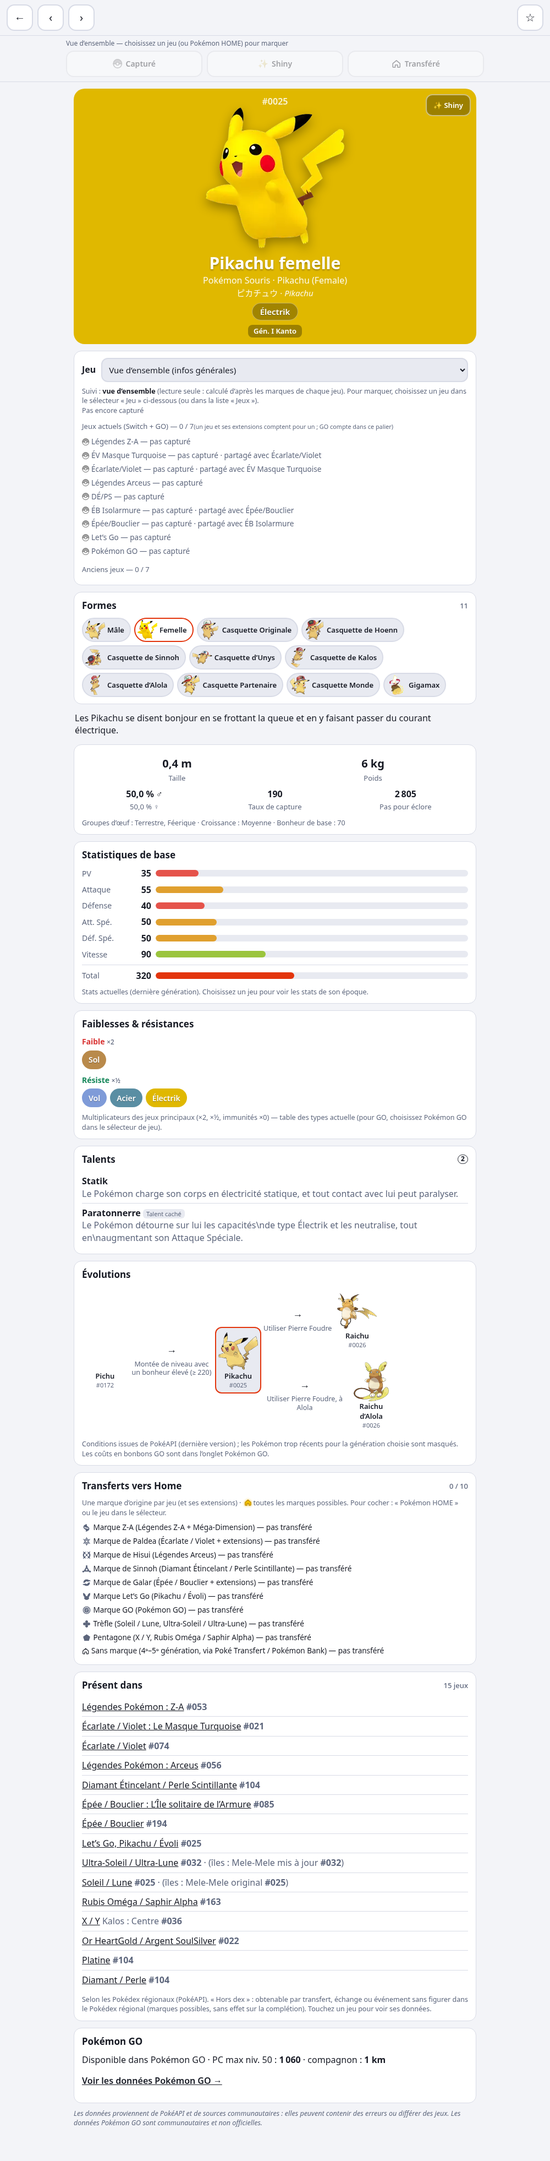
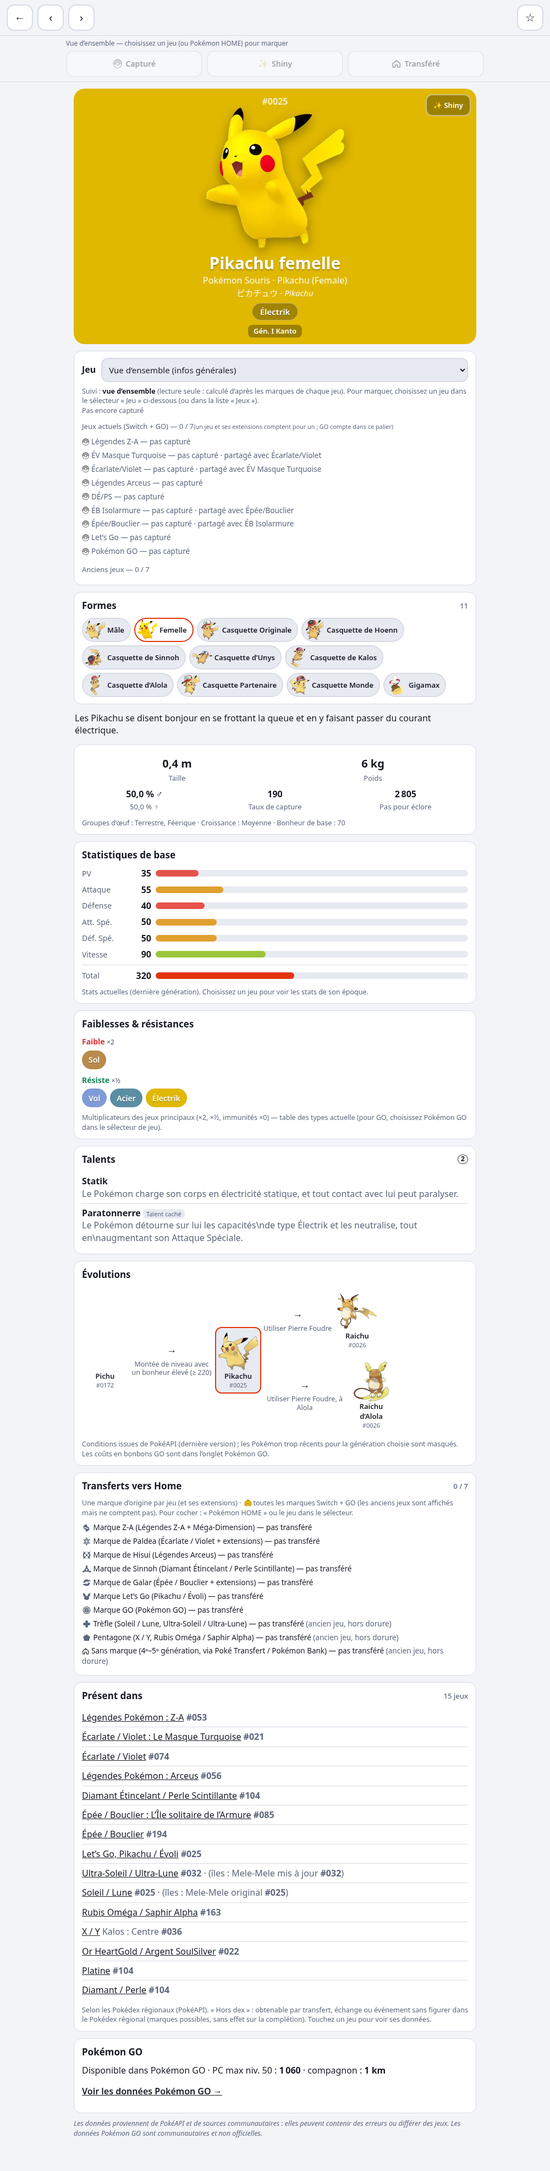
v23: Home gold counts only Switch-era origin marks + GO (old marks kept, not counted); Home sheet separates dorure / anciens jeux; GBA games: no HOME transfer (Pal Park → Sans marque)

diff --git a/docs/app.js b/docs/app.js
@@ -125,14 +125,19 @@ const ORIGINS = [
   { id: 'galar', n: 'Galar', fr: 'Marque de Galar (Épée / Bouclier + extensions)', games: ['sw', 'swisle', 'swcrown'] },
   { id: 'lgpe', n: 'Let’s Go', fr: 'Marque Let’s Go (Pikachu / Évoli)', games: ['lgpe'] },
   { id: 'go', n: 'GO', fr: 'Marque GO (Pokémon GO)', games: ['go'] },
-  { id: 'alola', n: 'Alola', fr: 'Trèfle (Soleil / Lune, Ultra-Soleil / Ultra-Lune)', games: ['sm', 'usum'] },
-  { id: 'kalos', n: 'Kalos', fr: 'Pentagone (X / Y, Rubis Oméga / Saphir Alpha)', games: ['xy', 'oras'] },
-  { id: 'none', n: 'Sans marque', s: 'Gén. 4–5', fr: 'Sans marque (4ᵉ–5ᵉ génération, via Poké Transfert / Pokémon Bank)', games: ['dp', 'pt', 'hgss', 'bw', 'b2w2'], noimg: 1 },
-  { id: 'gb', n: 'Game Boy', s: 'GB', fr: 'Marque Game Boy (Console virtuelle 3DS : Rouge / Bleu / Jaune / Or / Argent / Cristal)', games: ['rb', 'y', 'gs', 'c'] },
+  { id: 'alola', old: 1, n: 'Alola', fr: 'Trèfle (Soleil / Lune, Ultra-Soleil / Ultra-Lune)', games: ['sm', 'usum'] },
+  { id: 'kalos', old: 1, n: 'Kalos', fr: 'Pentagone (X / Y, Rubis Oméga / Saphir Alpha)', games: ['xy', 'oras'] },
+  { id: 'none', old: 1, n: 'Sans marque', s: 'Gén. 4–5', fr: 'Sans marque (4ᵉ–5ᵉ génération, via Poké Transfert / Pokémon Bank)', games: ['dp', 'pt', 'hgss', 'bw', 'b2w2'], noimg: 1 },
+  { id: 'gb', old: 1, n: 'Game Boy', s: 'GB', fr: 'Marque Game Boy (Console virtuelle 3DS : Rouge / Bleu / Jaune / Or / Argent / Cristal)', games: ['rb', 'y', 'gs', 'c'] },
 ];
 const ORI = Object.fromEntries(ORIGINS.map((o, i) => [o.id, { ...o, i }]));
 const ORIGIN_OF = {}; ORIGINS.forEach(o => o.games.forEach(g => ORIGIN_OF[g] = o.id));
 const originOf = c => ORIGIN_OF[c] || null;
+// v23 (Yann's rule): only Switch-era marks count for Home gold — Let's Go, Galar, DÉ/PS, Hisui, Paldea, Z-A, GO (except Mythicals), and GBA (Rouge Feu / Vert Feuille Switch) once added.
+// Old marks (Game Boy, pentagon, clover, « Sans marque ») keep their buttons and marks but do not count (Pokémon Bank closing).
+// GBA originals (Rubis/Saphir/Émeraude, Rouge Feu/Vert Feuille GBA): no HOME link (h: null) → Transféré greyed, no mark; Pal Park path = « Sans marque »
+const GBA_IDS = new Set(['rs', 'e', 'frlg']);
+const isGoldMark = m => !!ORI[m] && !ORI[m].old;
 const marksOf = games => [...new Set(games.map(originOf).filter(Boolean))].sort((a, b) => ORI[a].i - ORI[b].i);
 const omIcon = m => (!m || !ORI[m] || ORI[m].noimg) ? homeBall : `<span class="om om-${m}" aria-hidden="true"></span>`;
 // Battle-only (p.bo): Primo, Éternamax, in-battle forms — inherit base marks. Megas use p.mb + Méga-Gemme (Z-A). Gigamax are separately markable.
@@ -194,7 +199,8 @@ function baseStatus(p, av) {
 }
 const homeAvailF = (p, f) => p.mb ? homeAvail(p) : marksOf([...(f.av || []).filter(g => GAME_BY[g] && GAME_BY[g].h), ...(p.go && !p.my ? ['go'] : [])]);
 // "complete" = transferred from every compatible game where it exists (DLC/extension games count only when no base game has it)
-const homeComplete = (p, av = homeAvail(p)) => { if (p.bo) { p = mp(p); av = homeAvail(p); } const t = HOME_C.get(p.k) || []; return av.length > 0 && av.every(m => t.includes(m)); }; // every origin mark where it exists
+const homeGold = p => homeAvail(p).filter(isGoldMark); // marks that count for the gold Home icon
+const homeComplete = (p, av = homeAvail(p)) => { if (p.bo) { p = mp(p); av = homeAvail(p); } av = av.filter(isGoldMark); const t = HOME_C.get(p.k) || []; return av.length > 0 && av.every(m => t.includes(m)); }; // every Switch-era (+ GO) mark where it exists
 const isCaught = (p, c = trackCtx()) => {
   p = mp(p, c);
   if (p.mb) {
@@ -463,11 +469,11 @@ function numHTML(p) {
 // Icons: Poké Ball (red = caught in at least one game, gold = completed) and Home house (blue = transferred from at least one game, gold = from all compatible games)
 const BALL_GOLD = BALL.replace('class="ball"', 'class="ball gold"').replace('#e53935', '#f2b705').replace(/fill="#fff"/g, 'fill="#fff6c9"');
 const homeIcon = (gold, label) => `<span class="mk hm${gold ? ' gold' : ''}" role="img" aria-label="${label}" title="${label}"><svg class="hmi" viewBox="0 0 24 24" width="1em" height="1em" aria-hidden="true"><path d="M3 11.5 12 4l9 7.5V20a1 1 0 0 1-1 1h-5v-6H9v6H4a1 1 0 0 1-1-1z" stroke-width="2" stroke-linejoin="round"/></svg></span>`;
-const HOME_T = 'Transféré vers Home avec au moins une marque d’origine', HOME_C_T = 'Transféré avec toutes les marques d’origine possibles (tous les jeux compatibles où il existe)';
+const HOME_T = 'Transféré vers Home avec au moins une marque d’origine', HOME_C_T = 'Transféré avec toutes les marques d’origine Switch possibles (+ GO sauf fabuleux) : anciens jeux non comptés';
 const goldBall = (lv, label) => `<span class="mk ok gold" role="img" aria-label="${label}" title="${label}">${BALL_GOLD}${lv ? `<small class="lvl">${lv}</small>` : ''}</span>`;
 const LVL_T = { sw: 'Complété jeux actuels : capturé dans tous les jeux Switch où il existe, et dans Pokémon GO s’il y est disponible', old: 'Complété dans les anciens jeux : capturé dans tous les jeux d’avant la Switch où il existe' };
 const BASE_LEGEND = `<span>${BALL} capturé dans au moins un jeu (Pokémon GO compris)</span> <span>${goldBall('', 'Poké Ball dorée')} <b>Poké Ball dorée</b> : complété jeux actuels = capturé dans tous les jeux Switch où il existe (un jeu et ses extensions comptent pour un) <b>et</b> dans Pokémon GO s’il y est disponible</span> <span>${goldBall('🕹', 'Poké Ball dorée 🕹')} <b>Poké Ball dorée 🕹</b> : complété dans les anciens jeux = capturé dans tous les jeux d’avant la Switch où il existe (les deux niveaux : dorée + 🕹)</span> <span><span class="mk sh">✨</span> shiny dans au moins un jeu</span> <span>Pour marquer, choisissez un jeu (ou Pokémon GO) dans « Jeux ».</span> <span class="mute">Menu Catégorie : 🔴 Poké Ball · 🟡 Poké Ball dorée (jeux actuels / Switch + GO) · 🟡🕹 anciens jeux · 🏠 Home · 🟡🏠 Home doré · ✨ shiny.</span>`;
-const HOME_LEGEND = `<span>${homeIcon(false, HOME_T)} transféré avec au moins une marque d’origine</span> <span>${homeIcon(true, HOME_C_T)} <b>dorée</b> : transféré avec <b>toutes</b> les marques d’origine possibles = une par jeu compatible où il existe, un jeu et ses extensions comptant pour une (Pokémon GO compris, sauf pour les fabuleux)</span> <span>Marques : ${ORIGINS.map(o => `${omIcon(o.id)} ${esc(o.n)}`).join(' · ')}</span> <span>Pour cocher : fiche du Pokémon → « Pokémon HOME » (une case par marque ; échanges Home compris, sans « Capturé ») ou « Transféré » dans la fiche d’un jeu (implique « Capturé » dans ce jeu).</span> <span class="mute">Icônes des marques : Bulbagarden Archives (usage équitable). Menu Catégorie : 🏠 Home · 🟡🏠 Home doré.</span>`;
+const HOME_LEGEND = `<span>${homeIcon(false, HOME_T)} transféré avec au moins une marque d’origine</span> <span>${homeIcon(true, HOME_C_T)} <b>dorée</b> : transféré avec <b>toutes</b> les marques Switch où il existe — ${ORIGINS.filter(o => !o.old).map(o => `${omIcon(o.id)} ${esc(o.n)}`).join(' · ')} (un jeu et ses extensions comptent pour une ; Pokémon GO compris, sauf pour les fabuleux ; plus tard Rouge Feu / Vert Feuille Switch)</span> <span><b>Anciens jeux</b> (${ORIGINS.filter(o => o.old).map(o => `${omIcon(o.id)} ${esc(o.n)}`).join(' · ')}) : boutons et marques conservés, mais ne comptent pas pour la dorure (fermeture de Pokémon Bank).</span> <span>Pour cocher : fiche du Pokémon → « Pokémon HOME » (une case par marque ; échanges Home compris, sans « Capturé ») ou « Transféré » dans la fiche d’un jeu (implique « Capturé » dans ce jeu).</span> <span class="mute">Icônes des marques : Bulbagarden Archives (usage équitable). Menu Catégorie : 🏠 Home · 🟡🏠 Home doré.</span>`;
 // ball shown on cards in the base view: red = caught somewhere, gold = Switch-complete, gold+🕹 = anciens jeux (both → gold+🕹)
 function baseBall(p) {
   const b = baseStatus(p); if (!b.any) return '';
@@ -498,11 +504,12 @@ function transCat(p, cat) {
     return cat === 'trans' ? t : cat === 'notrans' ? !t : cat === 'strans' ? isSTrans(p, c) : homeComplete(p, homeAvail(p));
   }
   const q = mp(p), av = homeAvail(q); if (!av.length) return false;
+  if (cat === 'hcomplete' && !av.some(isGoldMark)) return false;
   return cat === 'trans' ? HOME_C.has(q.k) : cat === 'notrans' ? !HOME_C.has(q.k) : cat === 'strans' ? HOME_S.has(q.k) : homeComplete(q, av);
 }
 function updateCatOptions() {
   const c = trackCtx(), game = c && c !== 'home', off = game && !homeKind(c);
-  const lab = game ? { trans: '🏠 Transférés (marque de ce jeu)', notrans: '🏠 Pas encore transférés (marque de ce jeu)', strans: '✨ Shiny transférés (ce jeu)', hcomplete: '🟡🏠 Complets Home (toutes les marques)' } : { trans: '🏠 Transférés (au moins une marque)', notrans: '🏠 Pas encore transférés (aucune marque)', strans: '✨ Shiny transférés', hcomplete: '🟡🏠 Complets Home (toutes les marques)' };
+  const lab = game ? { trans: '🏠 Transférés (marque de ce jeu)', notrans: '🏠 Pas encore transférés (marque de ce jeu)', strans: '✨ Shiny transférés (ce jeu)', hcomplete: '🟡🏠 Complets Home (marques Switch + GO)' } : { trans: '🏠 Transférés (au moins une marque)', notrans: '🏠 Pas encore transférés (aucune marque)', strans: '✨ Shiny transférés', hcomplete: '🟡🏠 Complets Home (marques Switch + GO)' };
   for (const o of document.querySelectorAll('#cat option')) if (lab[o.value]) { o.textContent = lab[o.value]; o.disabled = !!off; }
   if (off && TRANS_CATS.includes(state.cat)) { state.cat = ''; $('#cat').value = ''; }
 }
@@ -600,9 +607,11 @@ function gameNames(ids) { return ids.map(g => g === 'go' ? 'Pokémon GO' : GAME_
 const omName = m => ORI[m] ? ORI[m].fr : m;
 function homeRowsHTML(av, f, sh, k) {
   if (!av.length) return '<br>Aucune marque d’origine possible : ce Pokémon (ou cette forme) n’existe dans aucun jeu compatible avec Home.';
-  const done = av.filter(m => f.includes(m)).length;
-  return `<br>Transféré depuis <b>${done} / ${av.length}</b> marques d’origine${done === av.length ? ` ${homeIcon(true, HOME_C_T)} complet` : ''} :<ul class="plain homerows">` +
-    av.map(m => `<li class="${f.includes(m) ? 'on' : ''}">${omIcon(m)} ${esc(omName(m))} — ${f.includes(m) ? `transféré${k && HOME_OG.has(m + ':' + k) ? ' <span class="mute">(depuis la fiche du jeu)</span>' : ''}` : 'pas transféré'}${sh.includes(m) ? ' · ✨ shiny' : ''}</li>`).join('') + '</ul>';
+  const row = m => `<li class="${f.includes(m) ? 'on' : ''}">${omIcon(m)} ${esc(omName(m))} — ${f.includes(m) ? `transféré${k && HOME_OG.has(m + ':' + k) ? ' <span class="mute">(depuis la fiche du jeu)</span>' : ''}` : 'pas transféré'}${sh.includes(m) ? ' · ✨ shiny' : ''}</li>`;
+  const gold = av.filter(isGoldMark), old = av.filter(m => !isGoldMark(m)), done = gold.filter(m => f.includes(m)).length;
+  return `<br><b class="hgrp">Compte pour la dorure</b> : ${gold.length ? `<b>${done} / ${gold.length}</b> marques${done === gold.length ? ` ${homeIcon(true, HOME_C_T)} complet` : ''}` : 'aucune (pas de dorure possible pour cette forme)'}` +
+    (gold.length ? `<ul class="plain homerows">${gold.map(row).join('')}</ul>` : '') +
+    (old.length ? `<b class="hgrp">Anciens jeux</b> <span class="mute">(marques conservées, ne comptent pas pour la dorure : fermeture de Pokémon Bank)</span><ul class="plain homerows old">${old.map(row).join('')}</ul>` : '');
 }
 function baseHTML(p0) {
   const p = mp(p0), f = DET && DET.p === p ? DET.f : null;
@@ -627,7 +636,7 @@ function trackHTML(p0) {
   if (c === 'home') {
     const f = HOME_C.get(p.k) || [], sh = HOME_S.get(p.k) || [], av = homeAvail(p);
     return note + `Suivi : <b>Pokémon HOME</b> — une marque d’origine par jeu (et ses extensions). Cochez la marque du Pokémon reçu, y compris par échange dans Home : cela compte comme un transfert depuis ce jeu, sans le marquer « Capturé » dans le jeu. Même état que le bouton « Transféré » de la fiche du jeu.<br>` +
-      `${homeIcon(false, HOME_T)} au moins une marque · ${homeIcon(true, HOME_C_T)} toutes les marques possibles (GO compris, sauf fabuleux)` +
+      `${homeIcon(false, HOME_T)} au moins une marque · ${homeIcon(true, HOME_C_T)} toutes les marques Switch possibles + GO (sauf fabuleux)` +
       homeRowsHTML(av, f, sh, p.k) + '<span class="mute credit">Icônes des marques d’origine : Bulbagarden Archives (usage équitable).</span>';
   }
   const hk = homeKind(c), sw = sharedWith(c, p);
@@ -644,7 +653,7 @@ function trackHTML(p0) {
     h += `<br><span class="mute gemline">${ms.map(m => `${megaXYZ(m) ? `Méga-énergie ${megaXYZ(m).toUpperCase()}` : 'Méga-énergie'} de ${esc((BY_KEY[String(p0.id)] || p0).n)} : ${hasEnergy(m) ? 'obtenue' : 'pas encore obtenue'}`).join(' · ')} (${ms.length > 1 ? 'une marque par Méga' : 'marque par espèce'}, sans effet sur la complétion).</span>`;
   }
   { const b = baseStatus(p), avG = grpsOf([...gamesOf(p), ...(p.go ? ['go'] : [])]), n = avG.length, cN = grpsOf(b.c).filter(G => avG.includes(G)).length; h += `<br><span class="mute">Tous jeux confondus : capturé dans ${cN} jeu${cN > 1 ? 'x' : ''} sur ${n} (un jeu et ses extensions comptent pour un) · shiny dans ${grpsOf(b.s).length}.</span>`; }
-  if (!hk) return h + '<br>Ce jeu ne peut pas envoyer directement de Pokémon vers HOME.';
+  if (!hk) return h + (GBA_IDS.has(c) ? '<br><span class="gbanote">Jeu GBA : pas de transfert direct vers HOME (Pal Park → 4ᵉ génération → Poké Transfert → Pokémon Bank). Un Pokémon venu par ce chemin se coche « Sans marque » sur la fiche Pokémon HOME (ancien jeu : ne compte pas pour la dorure).</span>' : '<br>Ce jeu ne peut pas envoyer directement de Pokémon vers HOME.');
   if (c === 'go' && p.my) return h + '<br>Les Pokémon fabuleux ne peuvent pas être transférés depuis Pokémon GO : GO n’est pas requis pour la complétion Home de ce Pokémon.';
   const om = originOf(c);
   h += ` <span class="mute">(${HOME_KIND_FR[hk]})</span>`;
@@ -664,10 +673,10 @@ function refreshTrack(p) {
 // Mobile: the fixed bottom bar can wrap (Home origin marks) → its height feeds the bottom padding of the sheet.
 function setBarH() { requestAnimationFrame(() => { const b = $('#actbar'), v = $('#detail-view'); if (b && v) v.style.setProperty('--barh', b.offsetHeight + 'px'); }); }
 function homeBarHTML(p) {
-  const q = mp(p, 'home'), av = homeAvail(q), f = HOME_C.get(q.k) || [], dis = !!p.bo, done = av.filter(m => f.includes(m)).length;
+  const q = mp(p, 'home'), av = homeAvail(q), f = HOME_C.get(q.k) || [], dis = !!p.bo, gav = av.filter(isGoldMark), done = gav.filter(m => f.includes(m)).length;
   const extra = f.filter(m => ORI[m] && !av.includes(m)); // ticked from a « hors dex » game sheet: shown so it can be unticked (no effect on completion)
-  const btns = [...av, ...extra].sort((a, b) => ORI[a].i - ORI[b].i).map(m => `<button class="act ori" type="button" data-origin="${m}"${dis ? ' disabled' : ''} aria-pressed="${f.includes(m)}" aria-label="Transféré – ${esc(omName(m))}" title="${esc(omName(m))} : ${dis ? 'variante de combat, suit la forme de base' : 'transféré vers Home avec cette marque d’origine (ou reçu par échange dans Home) — sans marquer « Capturé » dans le jeu'}">${omIcon(m)}<span class="t">${esc(ORI[m].s || ORI[m].n)}</span></button>`).join('');
-  const ctx = `<b>Pokémon HOME</b> · ${av.length ? `${done} / ${av.length} marque${av.length > 1 ? 's' : ''} d’origine${av.length && done === av.length ? ' ' + homeIcon(true, HOME_C_T) : ''}` : 'aucune marque possible'}`;
+  const btns = [...av, ...extra].sort((a, b) => ORI[a].i - ORI[b].i).map(m => `<button class="act ori${isGoldMark(m) ? '' : ' old'}" type="button" data-origin="${m}"${dis ? ' disabled' : ''} aria-pressed="${f.includes(m)}" aria-label="Transféré – ${esc(omName(m))}" title="${esc(omName(m))}${isGoldMark(m) ? ' (compte pour la dorure)' : ' (ancien jeu : ne compte pas pour la dorure)'} : ${dis ? 'variante de combat, suit la forme de base' : 'transféré vers Home avec cette marque d’origine (ou reçu par échange dans Home) — sans marquer « Capturé » dans le jeu'}">${omIcon(m)}<span class="t">${esc(ORI[m].s || ORI[m].n)}</span></button>`).join('');
+  const ctx = `<b>Pokémon HOME</b> · ${!av.length ? 'aucune marque possible' : gav.length ? `dorure ${done} / ${gav.length}${done === gav.length ? ' ' + homeIcon(true, HOME_C_T) : ''}${av.length > gav.length ? ` · <span class="oldl">anciens jeux en pointillés</span>` : ''}` : 'anciens jeux seulement (pas de dorure)'}`;
   return `<div class="actbar homebar" id="actbar" role="toolbar" aria-label="Transferts Pokémon HOME par marque d’origine"><div class="actctx">${ctx}</div><div class="acts oris">${btns || '<span class="mute">Aucun jeu compatible avec Home ne contient cette forme.</span>'}</div></div>`;
 }
 function actbarHTML(p) {
@@ -677,7 +686,7 @@ function actbarHTML(p) {
   const hk = c && c !== 'home' ? homeKind(c) : null;
   const trOn = !!(hk && !p.bo && !megaBo(p, c) && !(c === 'go' && p.my)); // same guard as toggleTransfer (logic unchanged)
   const sw = c && GAME_BY[c] ? sharedWith(c, q) : [];
-  const trT = !c ? 'Choisissez un jeu pour marquer un transfert' : !hk ? 'Ce jeu ne peut pas envoyer de Pokémon vers HOME' : (c === 'go' && p.my) ? 'Fabuleux : pas de transfert depuis GO' : !trOn ? 'Variante de combat : suit la forme de base' :
+  const trT = !c ? 'Choisissez un jeu pour marquer un transfert' : !hk ? (GBA_IDS.has(c) ? 'Jeu GBA : pas de transfert direct vers HOME (Pal Park → 4ᵉ gén. → Bank : « Sans marque » sur la fiche Pokémon HOME)' : 'Ce jeu ne peut pas envoyer de Pokémon vers HOME') : (c === 'go' && p.my) ? 'Fabuleux : pas de transfert depuis GO' : !trOn ? 'Variante de combat : suit la forme de base' :
     `Transféré vers Home depuis ${nm}${sw.length ? ' (et ' + sw.map(x => GAME_BY[x].s).join(', ') + ')' : ''}${p.mb ? ' (Méga : manuel, ou auto si gemme + transfert de la base)' : ''}`;
   let slot = '';
   if (c === 'go') slot = energyMates(p).map(m => energyBtnHTML(m)).join(''); // one Méga-énergie per Mega when the species has X / Y
@@ -1023,9 +1032,10 @@ function homeSrcHTML(p, f) {
   if (p.bo) return ''; // battle-only variant: shown through the base form
   const av = homeAvailF(p, f), t = HOME_C.get(p.k) || [], sh = HOME_S.get(p.k) || [];
   if (!av.length) return '';
-  return `<section class="box"><h2>Transferts vers Home <small class="cnt">${av.filter(m => t.includes(m)).length} / ${av.length}</small></h2>` +
-    `<p class="note" style="margin:0 0 6px">Une marque d’origine par jeu (et ses extensions) · ${homeIcon(true, HOME_C_T)} toutes les marques possibles${homeComplete(p, av) ? ' (complet)' : ''}. Pour cocher : « Pokémon HOME » ou le jeu dans le sélecteur.</p>` +
-    `<ul class="plain homerows">${av.map(m => `<li class="${t.includes(m) ? 'on' : ''}">${omIcon(m)} ${esc(omName(m))} — ${t.includes(m) ? 'transféré' : 'pas transféré'}${sh.includes(m) ? ' · ✨ shiny' : ''}</li>`).join('')}</ul></section>`;
+  const gav = av.filter(isGoldMark);
+  return `<section class="box"><h2>Transferts vers Home <small class="cnt">${gav.filter(m => t.includes(m)).length} / ${gav.length}</small></h2>` +
+    `<p class="note" style="margin:0 0 6px">Une marque d’origine par jeu (et ses extensions) · ${homeIcon(true, HOME_C_T)} toutes les marques Switch + GO (les anciens jeux sont affichés mais ne comptent pas)${homeComplete(p, av) ? ' (complet)' : ''}. Pour cocher : « Pokémon HOME » ou le jeu dans le sélecteur.</p>` +
+    `<ul class="plain homerows">${av.map(m => `<li class="${t.includes(m) ? 'on' : ''}">${omIcon(m)} ${esc(omName(m))} — ${t.includes(m) ? 'transféré' : 'pas transféré'}${isGoldMark(m) ? '' : ' <span class="mute">(ancien jeu, hors dorure)</span>'}${sh.includes(m) ? ' · ✨ shiny' : ''}</li>`).join('')}</ul></section>`;
 }
 function availHTML(sp, games, hors = []) {
   if (!games.length && !hors.length) return '';

diff --git a/docs/index.html b/docs/index.html
@@ -39,7 +39,7 @@
         <option value="olddone">🟡🕹 Complétés anciens jeux</option>
         <option value="trans">🏠 Transférés (au moins une marque)</option>
         <option value="notrans">🏠 Pas encore transférés (aucune marque)</option>
-        <option value="hcomplete">🟡🏠 Complets Home (toutes les marques)</option>
+        <option value="hcomplete">🟡🏠 Complets Home (marques Switch + GO)</option>
       </select>
       <select id="sort" aria-label="Tri">
         <option value="id">Tri : N°</option>

diff --git a/docs/style.css b/docs/style.css
@@ -273,3 +273,8 @@ details>summary{cursor:pointer;color:var(--mute);font-size:13px;min-height:32px;
   .act.ori{min-height:48px;font-size:11px;padding:3px 1px}
   .act .om{width:22px;height:22px}
 }
+.act.ori.old{border-style:dashed}
+.act.ori.old:not([aria-pressed=true]){opacity:.75}
+.homebar .oldl{border-bottom:1px dashed currentColor}
+.hgrp{display:inline-block;margin-top:6px}
+.homerows.old{opacity:.8}

diff --git a/docs/sw.js b/docs/sw.js
@@ -1,5 +1,5 @@
 'use strict';
-const VERSION = 'v22';
+const VERSION = 'v23';
 const DATA_VERSION = 'd9'; // bump when the schema of data/*.json changes
 const DATA = `pokedex-data-${DATA_VERSION}`;
 const SHELL = `pokedex-shell-${VERSION}`;

diff --git a/README.md b/README.md
@@ -71,7 +71,7 @@ En-tête de chaque fiche : nom français, puis genus · nom anglais, puis nom ja
 - **Migration** : les anciennes marques globales `caught`/`shiny` sont conservées comme « marques manuelles de l'ancienne version » : comptées comme capturé/shiny dans la vue de base, indiquées comme telles dans le détail avec un bouton « Retirer ». Elles ne servent à aucune complétion. Les favoris (`favs`) restent globaux.
 - Un jeu ou Pokémon GO choisi dans « Jeux » : marques par jeu et par forme, `caught_g`, `shiny_g` (`"rb:25"`, `"sw:26-alola"`), compteurs et filtres Catégorie propres au jeu.
 - **Transféré vers Home (v22 : par marque d'origine)** (`home_o` = transferts `"<marque>:<forme>"`, ex. `galar:25`, `za:3-mega` ; `home_og` = sous-ensemble coché depuis la fiche d'un jeu) : une marque d'origine HOME par jeu + ses extensions — Z-A (Z-A + Méga-Dimension), Paldea (Écarlate/Violet + extensions), Hisui (Légendes Arceus), DÉ/PS, Galar (Épée/Bouclier + extensions), Let's Go, GO, trèfle Alola (SL, USUL), pentagone Kalos (X/Y, ROSA), Game Boy (Console virtuelle 3DS : Rouge/Bleu/Jaune, Or/Argent/Cristal, `h: 'vc'`), et « Sans marque » pour la 4ᵉ–5ᵉ génération (DP, Pt, HGSS, N/B, N2/B2 : pas de marque dans HOME, regroupés). Marque GBA (Rouge Feu / Vert Feuille sur Switch) : icône prête (`img/origin/gba.png`), sans bouton tant que ce jeu n'est pas dans la liste « Jeux » (nos Rouge Feu/Vert Feuille sont les versions GBA, non compatibles). Non compatibles : Rubis/Saphir/Émeraude, Rouge Feu/Vert Feuille GBA.
-- **Règles v22** : le bouton « Transféré » d'une fiche de jeu (icône de la marque du jeu) et le bouton de la marque sur la fiche **Pokémon HOME** modifient le **même** état. Depuis un jeu : implique « Capturé » dans ce jeu. Depuis la fiche HOME (transfert ou Pokémon reçu par échange dans HOME) : **aucun** « Capturé » dans le jeu. Décocher « Capturé » dans un jeu retire le transfert de sa marque **seulement** s'il a été coché depuis une fiche de jeu et qu'aucun autre jeu de la même marque (ex. X/Y ↔ ROSA) n'a ce Pokémon capturé ; un transfert coché depuis HOME n'est jamais retiré par les jeux. **Home doré** = transféré avec toutes les marques possibles (marques des jeux compatibles où il existe ; GO compris sauf fabuleux ; Méga Z-A : marque Z-A seule). Les marques « hors dex » éventuelles s'affichent sur la fiche HOME mais ne comptent pas. **Migration** (une fois, au premier lancement v22) : `home_g` / `homeshiny_g` (par jeu) → `home_o` + `home_og` (jeu → marque), `home_g` conservé tel quel en sauvegarde ; l'import d'une ancienne sauvegarde est converti de la même façon. Icônes des marques : **Bulbagarden Archives** (usage équitable), hébergées dans `docs/img/origin/` (pas de lien direct), voir `CREDITS.txt`.
+- **Règles v22** : le bouton « Transféré » d'une fiche de jeu (icône de la marque du jeu) et le bouton de la marque sur la fiche **Pokémon HOME** modifient le **même** état. Depuis un jeu : implique « Capturé » dans ce jeu. Depuis la fiche HOME (transfert ou Pokémon reçu par échange dans HOME) : **aucun** « Capturé » dans le jeu. Décocher « Capturé » dans un jeu retire le transfert de sa marque **seulement** s'il a été coché depuis une fiche de jeu et qu'aucun autre jeu de la même marque (ex. X/Y ↔ ROSA) n'a ce Pokémon capturé ; un transfert coché depuis HOME n'est jamais retiré par les jeux. **Home doré (v23, règle de Yann)** = transféré avec toutes les marques **de l'ère Switch** où il existe : Let's Go, Galar, DÉ/PS, Hisui, Paldea, Z-A, + Pokémon GO (sauf fabuleux) et plus tard GBA (Rouge Feu / Vert Feuille Switch) ; Méga Z-A : marque Z-A seule. Les anciens jeux (Game Boy / Console virtuelle, pentagone, trèfle, « Sans marque ») gardent boutons et marques mais ne comptent **pas** (fermeture de Pokémon Bank) ; la fiche HOME les sépare (« Compte pour la dorure » / « Anciens jeux », boutons en pointillés). Une forme sans aucune marque Switch/GO ne peut pas être dorée. Jeux GBA d'origine (Rubis/Saphir/Émeraude, Rouge Feu/Vert Feuille GBA) : aucun lien direct avec HOME (Pal Park → 4ᵉ gén. → Poké Transfert → Bank) → bouton « Transféré » grisé, aucune marque ; un Pokémon venu par ce chemin se coche « Sans marque » sur la fiche HOME (ancien jeu, hors dorure). Les marques « hors dex » éventuelles s'affichent sur la fiche HOME mais ne comptent pas. **Migration** (une fois, au premier lancement v22) : `home_g` / `homeshiny_g` (par jeu) → `home_o` + `home_og` (jeu → marque), `home_g` conservé tel quel en sauvegarde ; l'import d'une ancienne sauvegarde est converti de la même façon. Icônes des marques : **Bulbagarden Archives** (usage équitable), hébergées dans `docs/img/origin/` (pas de lien direct), voir `CREDITS.txt`.
 - **Sauvegardes partagées** : un jeu et ses extensions forment une seule sauvegarde (`base` dans `build/games.mjs` : Épée/Bouclier + Isolarmure + Couronneige, Écarlate/Violet + Masque Turquoise + Disque Indigo, Légendes Z-A + Méga-Dimension). Marquer capturé / shiny / transféré dans l'un l'applique à tous les jeux du groupe où le Pokémon existe ; les compteurs et les complétions (Switch, Home) comptent un groupe une seule fois. Au démarrage et après import, les anciennes marques sont fusionnées par union dans chaque groupe (rien n'est perdu).
 - **Variantes de combat** (`bo` dans `core.json`, liste documentée dans `build/battle.mjs`) : formes qui n'existent qu'en combat (Méga, Primo, Éternamax + liste explicite : Morphéo météo, Ceriflor ensoleillé, Darumacho Transe, Meloetta Danse, Amphinobi Sacha/Synergie, Exagide Assaut, Zygarde Parfaite, Froussardine Banc, Météno noyaux, Mimiqui démasqué, Ultra-Necrozma, Nigosier Gobe-Tout/Gobe-Chu, Bekaglaçon Tête Dégel, Morpeko Affamé, Superdofin Super, Terapagos Téracristal/Stellaire). **Mégas** — listées dans tous les jeux à Méga-Évolution (X/Y, ROSA, Soleil/Lune, USUL, Let’s Go, Z-A, Méga-Dimension) avec leurs attaques ; hors Z-A ce sont des variantes de combat (marques de la base, non comptées) ; en Légendes Z-A elles comptent pour la complétion jeux actuels et Home : bouton sprite-only sur la fiche (pierre FR en tooltip ; X/Y = pierres distinctes ; à défaut sprite **Gemme Sésame** / `key-stone` + libellé Méga-Gemme) ; capturé/shiny en Z-A = forme de base capturée (shiny) dans la sauvegarde Z-A **et** gemme obtenue. Transfert Home de la Méga : manuel, sauf si gemme cochée — transférer la base transfère aussi la Méga. **Les formes Gigamax se marquent séparément** (Capturé / Shiny / Transféré), car il faut les capturer en jeu. Les autres variantes de combat (Méga, Primo, Éternamax, etc.) ne se marquent pas séparément : elles héritent des marques de la forme de base (« Variante de combat – suit la forme de base »), restent visibles dans la liste Formes et ne comptent pas dans les totaux. Les marques existantes posées sur ces variantes sont reportées sur la forme de base à la migration.
 - Vue **Pokémon HOME** (liste) : marques = transferts par marque d'origine (🏠 au moins une marque, 🟡🏠 toutes les marques possibles, ✨ shiny transféré — ancienne donnée par jeu). Fiche : sélecteur « Vue d'ensemble (infos générales) » (lecture seule) ou « Pokémon HOME (transferts) » : la barre d'actions affiche alors un bouton par marque d'origine possible (sur téléphone : 6 par ligne, retour à la ligne, sans débordement).
